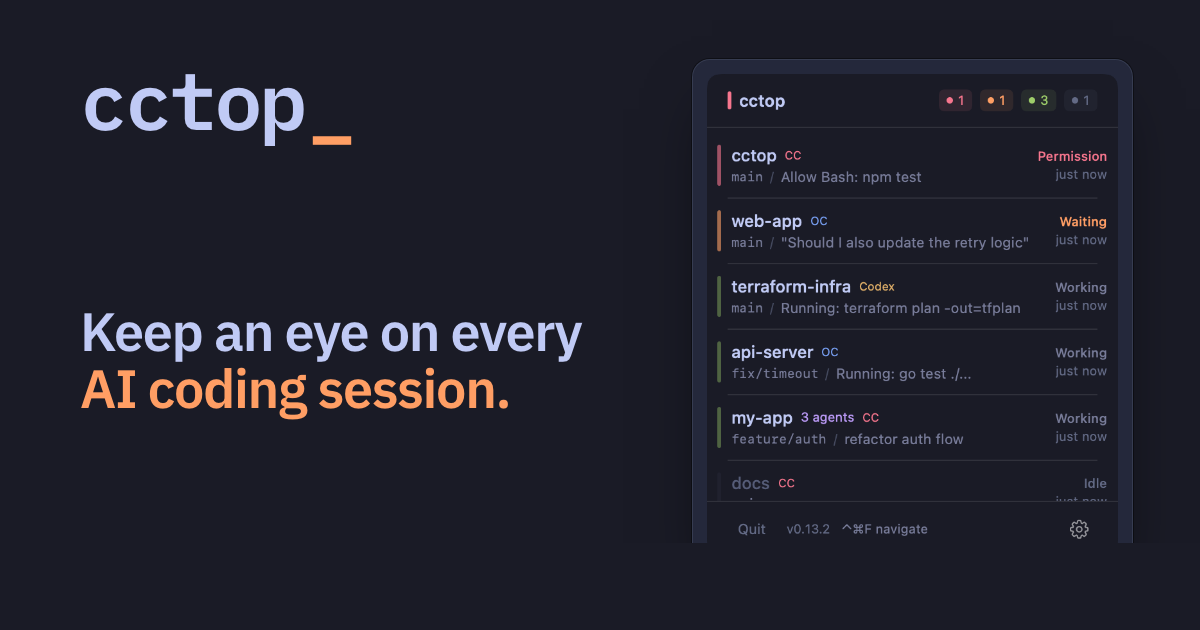
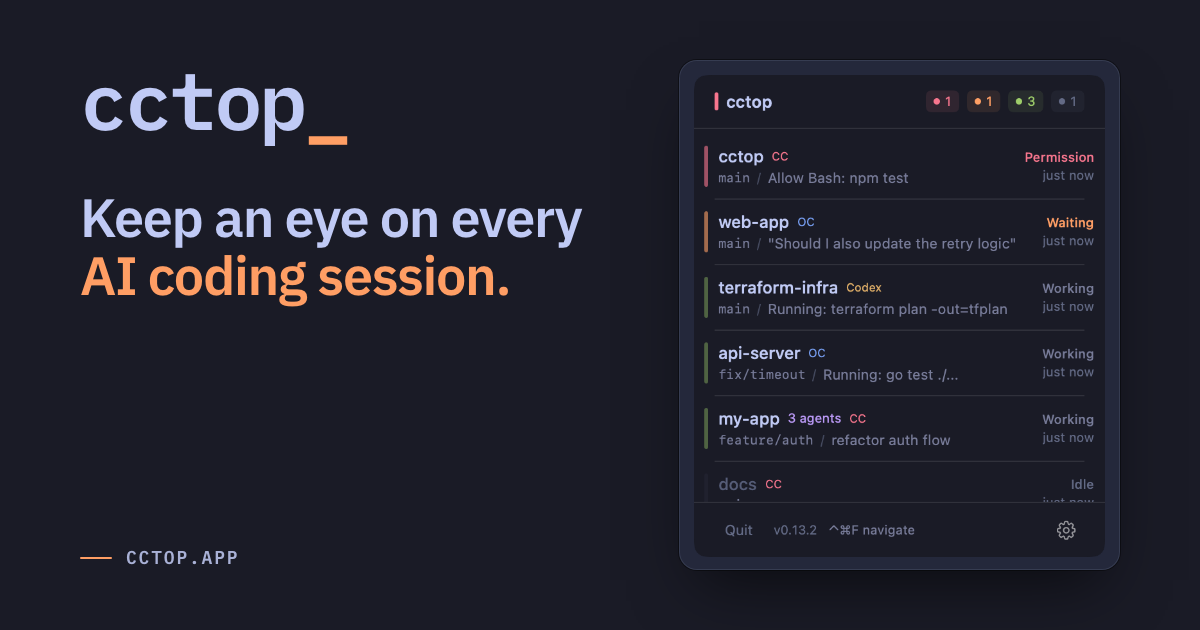
Fix OG card stamp clipping: render taller, top-crop to 1200x630
Chrome --headless=new on macOS reserves ~88px of invisible window chrome,
so a 1200x630 window only renders 1200x542 of viewport — anything past
y=542 (including the bottom-anchored cctop.app stamp) silently dropped.
Render at 1200x800 instead, then top-crop with ImageMagick to the
OG-required 1200x630.

Also rewrites og.html with explicit absolute positioning so the stamp's
placement doesn't depend on flex auto-sizing chains.

diff --git a/site/og.html b/site/og.html
@@ -5,62 +5,62 @@
 <title>cctop — social preview source (1200×630)</title>
 <link rel="preconnect" href="https://fonts.googleapis.com">
 <link rel="preconnect" href="https://fonts.gstatic.com" crossorigin>
-<link href="https://fonts.googleapis.com/css2?family=IBM+Plex+Mono:wght@600&family=IBM+Plex+Sans:wght@600&display=swap" rel="stylesheet">
+<link href="https://fonts.googleapis.com/css2?family=IBM+Plex+Mono:wght@500;600&family=IBM+Plex+Sans:wght@600;700&display=swap" rel="stylesheet">
 <style>
   *{margin:0;padding:0;box-sizing:border-box}
+  html,body{width:1200px;height:630px}
   body{
-    width:1200px;height:630px;
     background:#1a1b26;
     color:#c0caf5;
-    font-family:'IBM Plex Sans',sans-serif;
+    font-family:'IBM Plex Sans',-apple-system,BlinkMacSystemFont,sans-serif;
     -webkit-font-smoothing:antialiased;
+    position:relative;
     overflow:hidden;
-    display:flex;
-    align-items:stretch;
-    gap:72px;
-    padding:60px 80px;
-  }
-
-  .left{
-    width:540px;flex:none;
-    display:flex;flex-direction:column;
-    justify-content:space-between;
   }
 
   .wordmark{
-    font-family:'IBM Plex Mono',monospace;
+    position:absolute;
+    top:60px;left:80px;
+    font-family:'IBM Plex Mono','SF Mono',Menlo,monospace;
     font-size:80px;font-weight:600;
     letter-spacing:-0.04em;line-height:1;
     color:#c0caf5;
-    display:flex;align-items:baseline;
   }
-  .wordmark .caret{color:#ff9e64;margin-left:4px}
+  .wordmark .caret{color:#ff9e64}
 
   .tagline{
+    position:absolute;
+    top:188px;left:80px;
+    width:540px;
     font-size:54px;font-weight:600;
     color:#c0caf5;
-    line-height:1.05;letter-spacing:-0.025em;
-    margin-top:32px;
+    line-height:1.08;letter-spacing:-0.025em;
   }
   .tagline .accent{color:#ff9e64}
 
   .stamp{
+    position:absolute;
+    bottom:60px;left:80px;
+    height:24px;
     display:flex;align-items:center;gap:14px;
-    font-family:'IBM Plex Mono',monospace;
+  }
+  .stamp .line{
+    width:32px;height:2px;
+    background:#ff9e64;border-radius:1px;
+    flex:0 0 auto;
+  }
+  .stamp .label{
+    font-family:'IBM Plex Mono','SF Mono',Menlo,monospace;
     font-size:18px;font-weight:600;
+    line-height:24px;
     color:#a9b1d6;
     letter-spacing:0.10em;text-transform:uppercase;
   }
-  .stamp .line{
-    display:block;width:32px;height:2px;
-    background:#ff9e64;border-radius:1px;
-  }
 
-  .right{
-    flex:1;
-    display:flex;align-items:center;justify-content:center;
-  }
   .frame{
+    position:absolute;
+    top:60px;right:80px;
+    height:510px;
     background:#24283b;
     border:1px solid rgba(192,202,245,0.12);
     border-radius:18px;
@@ -77,15 +77,14 @@
 </style>
 </head>
 <body>
-  <div class="left">
-    <div class="wordmark">cctop<span class="caret">_</span></div>
-    <div class="tagline">Keep an eye on every <span class="accent">AI coding session.</span></div>
-    <div class="stamp"><span class="line"></span>cctop.app</div>
+  <div class="wordmark">cctop<span class="caret">_</span></div>
+  <div class="tagline">Keep an eye on every <span class="accent">AI coding session.</span></div>
+  <div class="stamp">
+    <span class="line"></span>
+    <span class="label">cctop.app</span>
   </div>
-  <div class="right">
-    <div class="frame">
-      <img src="https://raw.githubusercontent.com/st0012/cctop/master/docs/menubar-tokyonight-dark.png" alt="">
-    </div>
+  <div class="frame">
+    <img src="https://raw.githubusercontent.com/st0012/cctop/master/docs/menubar-tokyonight-dark.png" alt="" width="411" height="482">
   </div>
 </body>
 </html>
